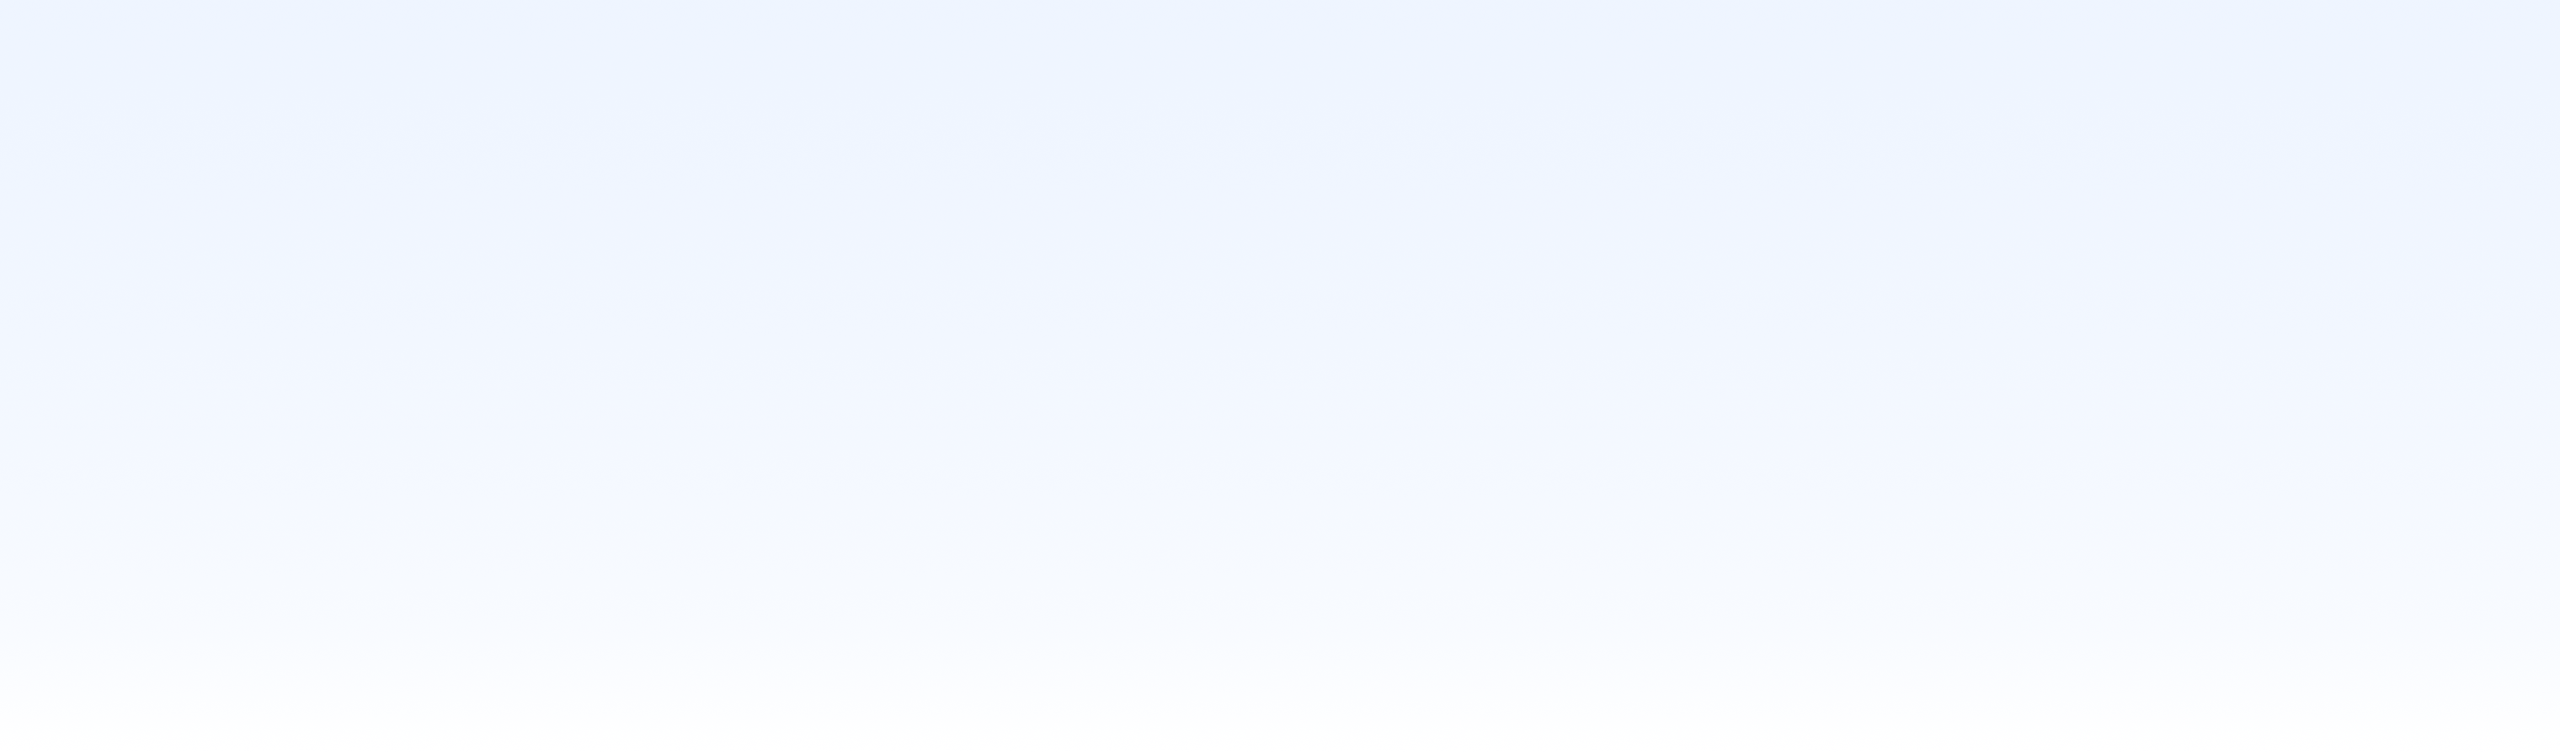
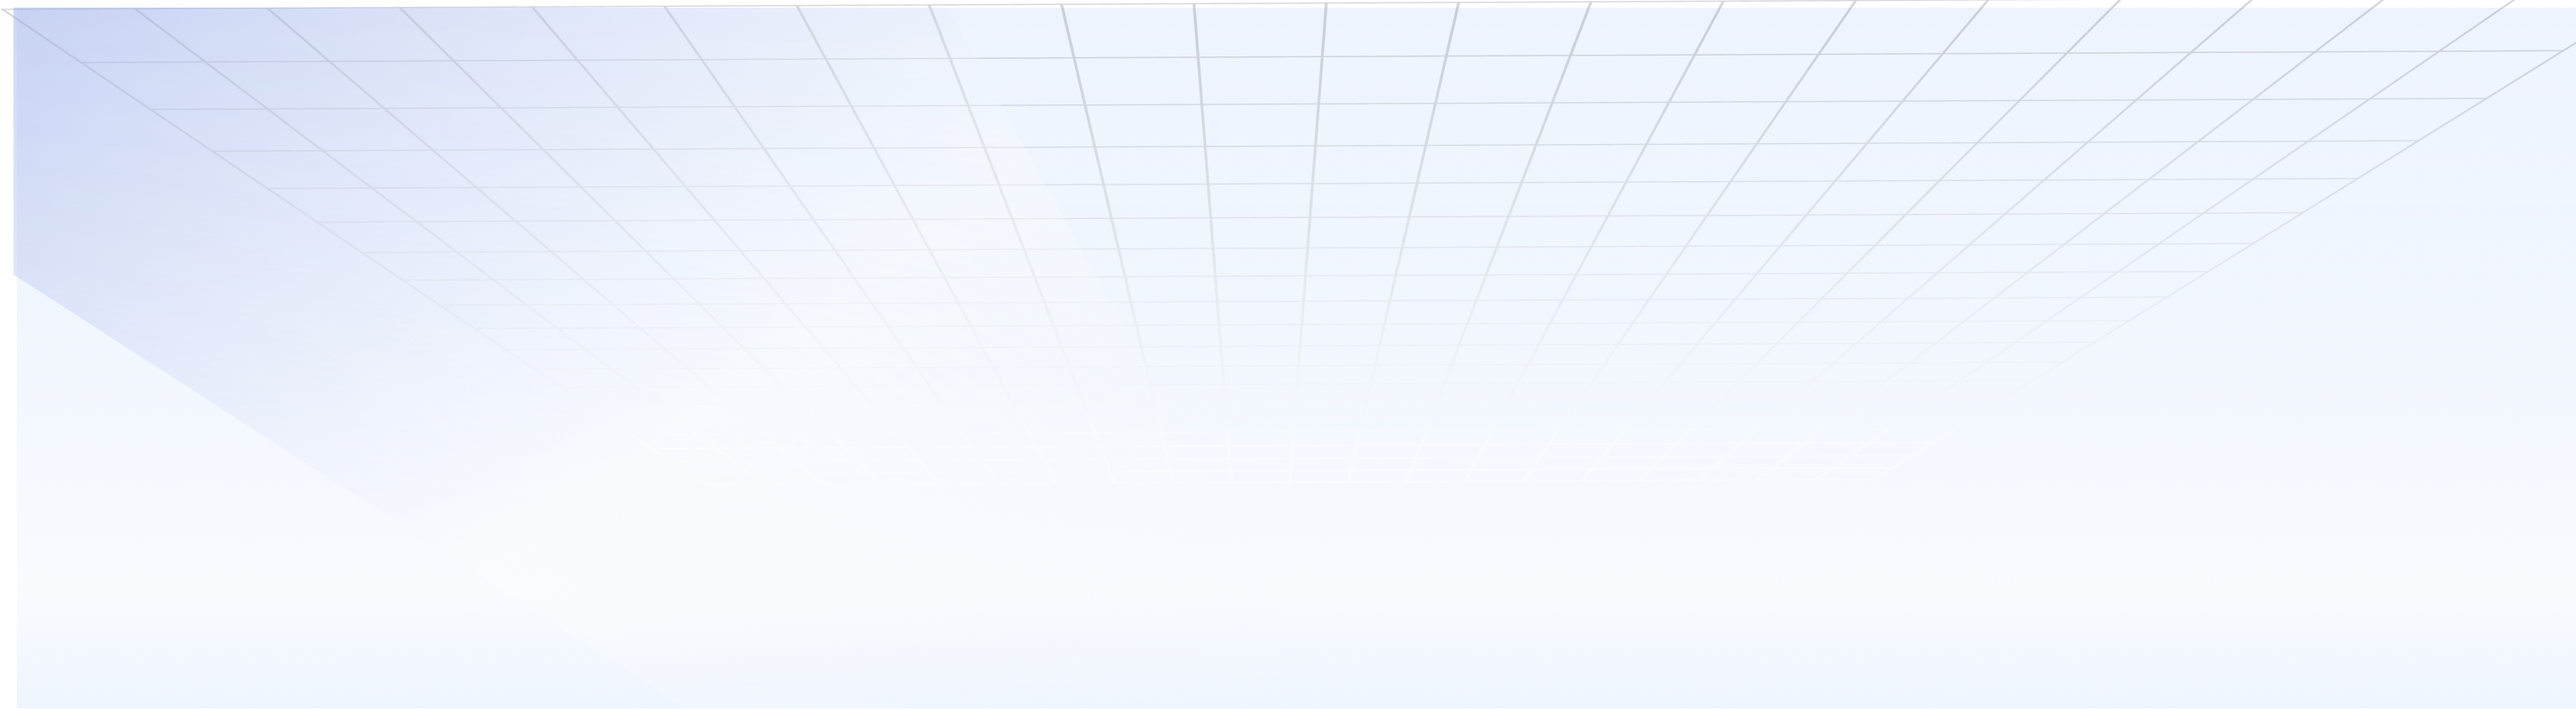
changes

Changed region(s): [[0.0, 0.0, 0.1562, 0.3701], [0.1562, 0.0617, 0.1875, 0.0925]]

diff --git a/app/resources/blogs/page.tsx b/app/resources/blogs/page.tsx
@@ -22,7 +22,10 @@ const fallbackBlogPosts = [
 
 const BlogsPage = () => {
   const [blogPosts, setBlogPosts] = useState<BlogPost[]>(fallbackBlogPosts);
+  const [filteredPosts, setFilteredPosts] = useState<BlogPost[]>(fallbackBlogPosts);
+  const [searchTerm, setSearchTerm] = useState('');
   const [isLoading, setIsLoading] = useState(true);
+  const [activeCategory, setActiveCategory] = useState('All');
 
   useEffect(() => {
     async function loadBlogs() {
@@ -50,6 +53,7 @@ const BlogsPage = () => {
             return dateB.getTime() - dateA.getTime();
           });
           setBlogPosts(sortedPosts);
+          setFilteredPosts(sortedPosts);
         }
       } catch (error) {
         console.error('Error loading blog posts:', error);
@@ -60,22 +64,140 @@ const BlogsPage = () => {
 
     loadBlogs();
   }, []);
+  
+  useEffect(() => {
+    let filtered = [...blogPosts];
+    
+    // Filter by search term
+    if (searchTerm.trim() !== '') {
+      const searchTermLower = searchTerm.toLowerCase();
+      filtered = filtered.filter(post => (
+        post.title.toLowerCase().includes(searchTermLower) ||
+        post.description.toLowerCase().includes(searchTermLower) ||
+        post.category.toLowerCase().includes(searchTermLower) ||
+        post.content.toLowerCase().includes(searchTermLower)
+      ));
+    }
+    
+    // Filter by category
+    if (activeCategory !== 'All') {
+      filtered = filtered.filter(post => post.category === activeCategory);
+    }
+    
+    setFilteredPosts(filtered);
+  }, [searchTerm, activeCategory, blogPosts]);
 
   return (
     <div className="bg-white">
       {/* Hero Section */}
-      <div className="bg-gradient-to-r from-blue-50 to-blue-100 py-24">
+      <div style={{
+        backgroundImage: 'url("/blogs/background.png")',
+        backgroundSize: 'cover',
+        backgroundPosition: 'center',
+        padding: '4rem 0',
+      }}>
         <div className="max-w-7xl mx-auto px-4 sm:px-6 lg:px-8 text-center">
-          <span className="text-blue-500 text-sm font-medium tracking-wider uppercase">
-            INSIGHTS & KNOWLEDGE
-          </span>
-          <h1 className="text-4xl md:text-5xl font-bold text-gray-900 mt-4 mb-8 max-w-4xl mx-auto">
+          
+          <h1 style={{
+            fontFamily: 'var(--font-syne)',
+            fontWeight: 700,
+            fontSize: '48px',
+            lineHeight: '72px',
+            letterSpacing: '0%',
+            textAlign: 'center',
+            color: '#1a202c',
+            marginTop: '1rem',
+            marginBottom: '2rem',
+            maxWidth: '56rem',
+            marginLeft: 'auto',
+            marginRight: 'auto'
+          }}>
             Latest Blogs and Industry Insights
           </h1>
-          <p className="text-xl text-gray-600 max-w-3xl mx-auto mb-8">
+          <p style={{
+            fontFamily: 'var(--font-poppins)',
+            fontWeight: 400,
+            fontSize: '16px',
+            lineHeight: '30px',
+            letterSpacing: '2%',
+            textAlign: 'center',
+            color: '#4a5568',
+            maxWidth: '48rem',
+            marginLeft: 'auto',
+            marginRight: 'auto',
+            marginBottom: '2rem'
+          }}>
             Explore our collection of thought leadership, technical guides, and industry analyses to stay ahead in the world of AI and enterprise solutions.
           </p>
-          <div className="h-1 w-16 bg-blue-500 mx-auto rounded-full"></div>
+          
+          {/* Search Bar */}
+          <div className="max-w-2xl mx-auto mt-12 mb-8">
+            <div className="relative flex items-center">
+              <input
+                type="text"
+                placeholder="Search blogs..."
+                className="w-full py-3 pl-12 pr-4 text-gray-700 bg-white border border-gray-300 rounded-full focus:outline-none focus:ring-2 focus:ring-blue-500 focus:border-transparent"
+                value={searchTerm}
+                onChange={(e) => setSearchTerm(e.target.value)}
+              />
+              <div className="absolute inset-y-0 left-0 flex items-center pl-4 pointer-events-none">
+                <svg className="w-5 h-5 text-gray-500" fill="none" stroke="currentColor" viewBox="0 0 24 24" xmlns="http://www.w3.org/2000/svg">
+                  <path strokeLinecap="round" strokeLinejoin="round" strokeWidth="2" d="M21 21l-6-6m2-5a7 7 0 11-14 0 7 7 0 0114 0z"></path>
+                </svg>
+              </div>
+             
+            </div>
+          </div>
+        </div>
+      </div>
+
+      {/* Category Tabs */}
+      <div className="mt-3">
+        <div className="max-w-7xl mx-auto px-4 sm:px-6 lg:px-8">
+          <div className="flex justify-center space-x-12">
+            {!isLoading && (
+              <>
+                <button
+                  onClick={() => setActiveCategory('All')}
+                  style={{
+                    fontFamily: 'var(--font-syne)',
+                    fontWeight: 700,
+                    fontSize: '14px',
+                    lineHeight: '20px',
+                    letterSpacing: '0px',
+                    textAlign: 'center',
+                    padding: '0.5rem 0',
+                    position: 'relative',
+                    color: activeCategory === 'All' ? '#1a202c' : '#ACB6BE',
+                    borderBottom: activeCategory === 'All' ? '2px solid #3182ce' : 'none'
+                  }}
+                >
+                  All Blogs
+                </button>
+                {Array.from(new Set(blogPosts.map(post => post.category))).map((category) => (
+                  <button
+                    key={category}
+                    onClick={() => setActiveCategory(category)}
+                    style={{
+                      fontFamily: 'var(--font-syne)',
+                      fontWeight: 700,
+                      fontSize: '14px',
+                      lineHeight: '20px',
+                      letterSpacing: '0px',
+                      textAlign: 'center',
+                      padding: '0.5rem 0',
+                      position: 'relative',
+                      color: activeCategory === category ? '#1a202c' : '#718096',
+                      borderBottom: activeCategory === category ? '2px solid #3182ce' : 'none'
+                    }}
+                  >
+                    {category}
+                  </button>
+                ))}
+              </>
+            )}
+          </div>
+          {/* <div className="border-b border-gray-200 mt-2"></div> */}
         </div>
       </div>
 
@@ -93,7 +215,7 @@ const BlogsPage = () => {
           {/* Blogs Grid */}
           {!isLoading && (
             <div className="grid grid-cols-1 md:grid-cols-2 lg:grid-cols-3 gap-8 mb-16">
-              {blogPosts.map((post) => (
+              {filteredPosts.map((post) => (
                 <div 
                   key={post.id}
                   className="group bg-white rounded-[32px] border border-[rgba(66,153,225,0.2)] overflow-hidden hover:shadow-xl transition-all duration-300 flex flex-col h-full"
@@ -112,25 +234,61 @@ const BlogsPage = () => {
                     />
                   </div>
                   <div className="p-8 flex-grow flex flex-col">
-                    <div className="text-blue-400 text-sm mb-2">{post.date}</div>
+                    <div style={{
+                      fontFamily: 'var(--font-poppins)',
+                      fontWeight: 500,
+                      fontSize: '12px',
+                      lineHeight: '20px',
+                      letterSpacing: '0%',
+                      color: '#60a5fa',
+                      marginBottom: '0.5rem'
+                    }}>{post.date}</div>
                     <Link 
                       href={`/resources/blogs/${post.title.toLowerCase().replace(/[^a-z0-9]+/g, '-').replace(/^-|-$/g, '')}`}
                       className="block"
                     >
-                      <h3 className="text-xl font-semibold text-gray-900 mb-4 group-hover:text-blue-600 transition-colors duration-300 cursor-pointer">
+                      <h3 style={{
+                        fontFamily: 'var(--font-syne)',
+                        fontWeight: 600,
+                        fontSize: '18px',
+                        lineHeight: '28px',
+                        letterSpacing: '0%',
+                        color: '#1a202c',
+                        marginBottom: '1rem',
+                        transition: 'color 0.3s ease',
+                        cursor: 'pointer'
+                      }} className="group-hover:text-blue-600">
                         {post.title}
                       </h3>
                     </Link>
-                    <p className="text-gray-600 text-base leading-relaxed mb-6">
+                    <p style={{
+                      fontFamily: 'var(--font-poppins)',
+                      fontWeight: 400,
+                      fontSize: '14px',
+                      lineHeight: '26px',
+                      letterSpacing: '0%',
+                      color: '#4a5568',
+                      marginBottom: '1.5rem'
+                    }}>
                       {post.description.replace(/(?:https?:\/\/[^\s]+|[^\s]+\.(?:jpg|jpeg|png|gif|webp))/gi, '').trim()}
                     </p>
                     <div className="mt-auto">
                       <Link 
                         href={`/resources/blogs/${post.title.toLowerCase().replace(/[^a-z0-9]+/g, '-').replace(/^-|-$/g, '')}`}
-                        className="inline-flex items-center text-blue-500 font-medium group-hover:text-blue-700 transition-colors duration-300"
-                        onClick={() => console.log(`Navigating to blog ${post.id}`, `/resources/blogs/${post.title.toLowerCase().replace(/[^a-z0-9]+/g, '-').replace(/^-|-$/g, '')}`)}
+                        style={{
+                          fontFamily: 'var(--font-syne)',
+                          fontWeight: 700,
+                          fontSize: '18px',
+                          lineHeight: '100%',
+                          letterSpacing: '0px',
+                          color: '#3b82f6',
+                          display: 'inline-flex',
+                          alignItems: 'center',
+                          transition: 'color 0.3s ease'
+                        }}
+                        className="group-hover:text-blue-700"
                       >
-                        Read More
+                        Read Our Blog
                         <svg className="ml-2 w-4 h-4 group-hover:translate-x-1 transition-transform duration-300" fill="none" stroke="currentColor" viewBox="0 0 24 24" xmlns="http://www.w3.org/2000/svg">
                           <path strokeLinecap="round" strokeLinejoin="round" strokeWidth={2} d="M14 5l7 7m0 0l-7 7m7-7H3" />
                         </svg>
